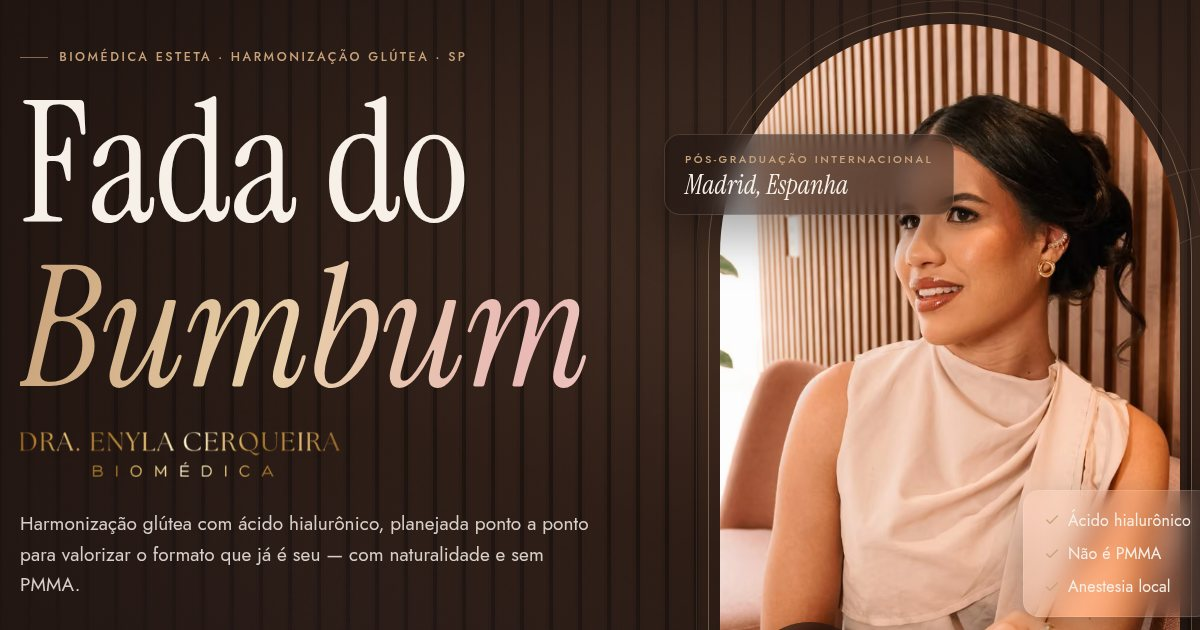
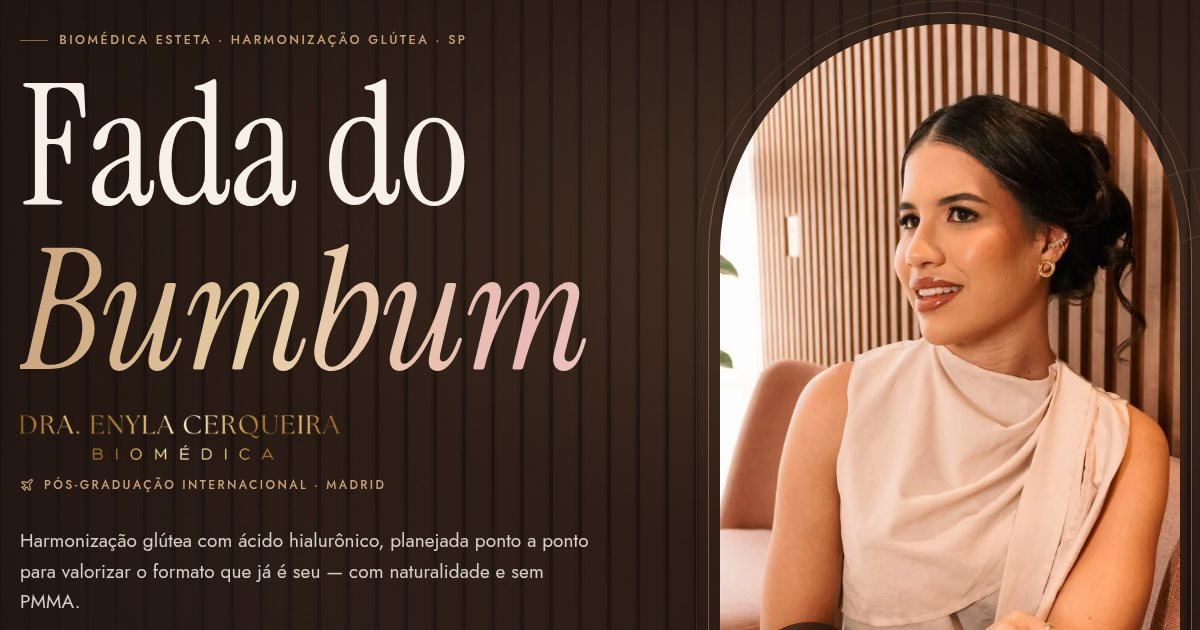
Proposta: destaque do nome Fada do Bumbum disponível
- Capa com selo 'fadadobumbum.com.br está disponível hoje'
- Slide do nome: .com.br e .com livres (consulta 05/10/2026), o que se
  perde se outra pessoa registrar antes, custo de R$ 40/ano e nota do INPI
- Convite final com primeiro passo concreto: garantir o domínio no nome
  dela, com botão direto no WhatsApp
- Capturas do site na proposta atualizadas (hero sem cartões sobre a foto)

Claude-Session: https://claude.ai/code/session_01ErwGMXvV9p4GR49w5GWrmr

diff --git a/app/proposta/page.tsx b/app/proposta/page.tsx
@@ -2,7 +2,7 @@ import type { CSSProperties, ReactNode } from 'react';
 import type { Metadata, Viewport } from 'next';
 import Image from 'next/image';
 import OfferDeck from './OfferDeck';
-import { brl, installmentValue, market, pixPrice, plans, pricing, seller, sellerWhatsapp } from '@/lib/offer';
+import { brl, installmentValue, market, nameCheck, pixPrice, plans, pricing, seller, sellerWhatsapp } from '@/lib/offer';
 import './proposta.css';
 
 export const metadata: Metadata = {
@@ -45,6 +45,13 @@ function Shot({ src, alt, label, className = '', n = 0 }: { src: string; alt: st
   );
 }
 
+const live = (
+  <span aria-hidden="true" className="relative flex h-2.5 w-2.5 shrink-0">
+    <span className="absolute inline-flex h-full w-full animate-ping rounded-full bg-[#4ade80] opacity-60 motion-reduce:hidden" />
+    <span className="relative h-2.5 w-2.5 rounded-full bg-[#4ade80]" />
+  </span>
+);
+
 const check = <span aria-hidden="true" className="mt-1 grid h-5 w-5 shrink-0 place-items-center rounded-full bg-rosedeep text-[11px] text-ivory">✓</span>;
 
 export default function Oferta() {
@@ -65,11 +72,14 @@ export default function Oferta() {
               <p className="of-lead of-reveal" style={d(2)}>
                 Um site autoral, <strong className="font-medium text-cream">já construído e no ar</strong>, feito a partir do seu Instagram, da sua formação em Madrid e da clínica da Haddock Lobo. Esta apresentação mostra o que ele faz, por que ele vende e quanto custa mantê-lo evoluindo.
               </p>
-              <div className="of-reveal flex flex-wrap items-center gap-4" style={d(3)}>
+              <p className="of-reveal inline-flex w-fit flex-wrap items-center gap-x-3 gap-y-1 rounded-full border border-gold/40 bg-cream/5 px-5 py-2.5 text-[14px]" style={d(3)}>
+                {live}<span><b className="font-medium text-cream">fadadobumbum.com.br</b> <span className="text-cream/75">está disponível hoje</span></span>
+              </p>
+              <div className="of-reveal flex flex-wrap items-center gap-4" style={d(4)}>
                 <a href="/" target="_blank" rel="noopener noreferrer" className="inline-flex min-h-12 items-center gap-3 rounded-full bg-gold px-7 text-[13px] font-medium uppercase tracking-[.14em] text-espresso">Abrir o site ↗</a>
                 <span className="text-[13px] text-cream/65">13 capítulos · cerca de 6 minutos</span>
               </div>
-              <div className="of-reveal mt-4 flex items-center gap-3" style={d(4)}>
+              <div className="of-reveal mt-4 flex items-center gap-3" style={d(5)}>
                 <span className="grid h-11 w-11 place-items-center rounded-full bg-cream/10 font-display text-lg text-gold ring-1 ring-gold/40">{seller.initials}</span>
                 <span className="leading-tight"><b className="block font-medium">{seller.name}</b><small className="text-cream/65">{seller.role}</small></span>
               </div>
@@ -119,16 +129,34 @@ export default function Oferta() {
         <div className="of-orbs" aria-hidden="true"><i /><i /></div>
         <div className="of-wrap">
           <div className="grid items-center gap-12 lg:grid-cols-[1.1fr_.9fr]">
-            <Heading eyebrow="02 / Uma marca que precisa de endereço" lead="“Fada do Bumbum” é uma marca forte — e nomes fortes são disputados. Hoje o domínio ainda está livre no Registro.br.">
-              Antes que alguém registre, <em>o nome deveria ser seu.</em>
-            </Heading>
-            <div className="of-reveal grid gap-4" style={d(3)}>
-              <div className="rounded-[22px] border border-gold/40 bg-cream/5 p-7">
-                <p className="text-[11px] uppercase tracking-[.22em] text-gold">Consulta no Registro.br · 03/10/2026</p>
-                <p className="mt-4 break-all font-display text-[clamp(2rem,3.6vw,3.2rem)] leading-none">fadadobumbum<span className="text-gold">.com.br</span></p>
-                <p className="mt-4 flex items-center gap-2 text-sm text-cream/85"><span className="h-2.5 w-2.5 rounded-full bg-[#4ade80]" /> Disponível para registro · {brl(pricing.domainYear)} por ano</p>
+            <div className="grid gap-6">
+              <Heading eyebrow="02 / O nome Fada do Bumbum" lead="É um nome que se guarda de primeira, fácil de buscar e de indicar — o tipo de nome que vira referência. Na consulta de hoje, ele continua livre. Mas no Registro.br não existe reserva: o domínio fica com quem registrar primeiro.">
+                Fada do Bumbum é a sua marca. <em>Hoje, o nome ainda está disponível.</em>
+              </Heading>
+              <div className="of-reveal grid gap-3" style={d(4)}>
+                <p className="text-[11px] uppercase tracking-[.22em] text-gold">Se outra pessoa registrar antes</p>
+                <ul className="grid gap-2.5 text-[15px] leading-snug text-cream/85">
+                  <li className="flex gap-3"><span className="text-gold">✕</span>quem digitar “Fada do Bumbum” cai no site de outra pessoa;</li>
+                  <li className="flex gap-3"><span className="text-gold">✕</span>recuperar um domínio ocupado custa muito mais — quando o dono aceita vender;</li>
+                  <li className="flex gap-3"><span className="text-gold">✕</span>todo o conteúdo que você cria passa a fortalecer um endereço que não é seu.</li>
+                </ul>
               </div>
-              <p className="of-note">O registro é feito no CPF ou CNPJ da Dra. Enyla: o endereço é dela para sempre, independentemente de quem cuida do site.</p>
+            </div>
+            <div className="of-reveal grid gap-4" style={d(3)}>
+              <div className="grid gap-5 rounded-[22px] border border-gold/40 bg-cream/5 p-7">
+                <p className="text-[11px] uppercase tracking-[.22em] text-gold">Consulta no Registro.br e na Verisign · {nameCheck.date}</p>
+                {nameCheck.domains.map((domain, i) => (
+                  <div key={domain.tld} className={i ? 'border-t border-cream/10 pt-5' : ''}>
+                    <p className={`break-all font-display leading-none ${i ? 'text-[clamp(1.5rem,2.4vw,2.1rem)] text-cream/85' : 'text-[clamp(2rem,3.6vw,3.2rem)]'}`}>{domain.name}<span className="text-gold">{domain.tld}</span></p>
+                    <p className="mt-3 flex items-center gap-2.5 text-sm text-cream/85">{live} Disponível · {domain.note}</p>
+                  </div>
+                ))}
+              </div>
+              <div className="rounded-[22px] bg-gold px-7 py-5 text-espresso">
+                <p className="font-display text-[clamp(1.6rem,2.6vw,2.2rem)] leading-tight">{brl(pricing.domainYear)} por ano.</p>
+                <p className="mt-1 text-[15px]">Menos de R$ 4 por mês para o nome ser seu — em qualquer cenário.</p>
+              </div>
+              <p className="of-note">O registro é feito no CPF ou CNPJ da Dra. Enyla: o endereço é dela, independentemente de quem cuida do site. Para proteger o nome também fora da internet, o passo seguinte é o registro da marca no INPI.</p>
             </div>
           </div>
         </div>
@@ -339,11 +367,17 @@ export default function Oferta() {
           <p className="of-eyebrow of-reveal" style={d(0)}>12 / O convite</p>
           <h2 className="of-reveal max-w-5xl text-[clamp(3rem,6.6vw,6.6rem)] leading-[.98]" style={d(1)}>Vamos colocar a Fada <em className="shimmer">no mapa?</em></h2>
           <p className="of-lead of-reveal" style={d(2)}>O site está pronto para receber as suas pacientes. Falta só ele ganhar o seu nome, os seus textos finais e o endereço que é seu.</p>
-          <div className="of-reveal flex flex-wrap items-center gap-4" style={d(3)}>
-            <a href={sellerWhatsapp('Gustavo, vi a proposta do site da Fada do Bumbum e quero conversar.')} target="_blank" rel="noopener noreferrer" data-sparkle className="inline-flex min-h-14 items-center gap-3 rounded-full bg-gold px-8 text-[13px] font-medium uppercase tracking-[.16em] text-espresso">Vamos conversar ↗</a>
-            <a href="/" target="_blank" rel="noopener noreferrer" className="inline-flex min-h-12 items-center border-b border-gold/60 text-[13px] font-medium uppercase tracking-[.16em]">Rever o site</a>
+          <div className="of-reveal grid max-w-3xl gap-2 rounded-[22px] border border-gold/40 bg-cream/5 p-6 sm:p-7" style={d(3)}>
+            <p className="flex items-center gap-2.5 text-[11px] uppercase tracking-[.22em] text-gold">{live} Primeiro passo · ainda esta semana</p>
+            <p className="font-display text-[clamp(1.6rem,2.8vw,2.4rem)] leading-tight">Garantir <span className="text-gold">fadadobumbum.com.br</span> no seu nome.</p>
+            <p className="text-[15px] text-cream/80">Leva cerca de 10 minutos, custa {brl(pricing.domainYear)} por ano e já protege a marca — mesmo antes de decidirmos o resto.</p>
           </div>
-          <p className="of-note of-reveal" style={d(4)}>{seller.name} · {seller.role}. Valores válidos por 15 dias a partir de 03/10/2026.</p>
+          <div className="of-reveal flex flex-wrap items-center gap-4" style={d(4)}>
+            <a href={sellerWhatsapp('Gustavo, quero garantir o domínio fadadobumbum.com.br no meu nome.')} target="_blank" rel="noopener noreferrer" data-sparkle className="inline-flex min-h-14 items-center gap-3 rounded-full bg-gold px-8 text-[13px] font-medium uppercase tracking-[.16em] text-espresso">Garantir o nome ↗</a>
+            <a href={sellerWhatsapp('Gustavo, vi a proposta do site da Fada do Bumbum e quero conversar.')} target="_blank" rel="noopener noreferrer" className="inline-flex min-h-12 items-center border-b border-gold/60 text-[13px] font-medium uppercase tracking-[.16em]">Conversar sobre o site</a>
+            <a href="/" target="_blank" rel="noopener noreferrer" className="inline-flex min-h-12 items-center border-b border-cream/30 text-[13px] font-medium uppercase tracking-[.16em] text-cream/75">Rever o site</a>
+          </div>
+          <p className="of-note of-reveal" style={d(5)}>{seller.name} · {seller.role}. Valores válidos por 15 dias a partir de 03/10/2026.</p>
         </div>
       </section>
     </OfferDeck>

diff --git a/lib/offer.ts b/lib/offer.ts
@@ -24,6 +24,15 @@ export const pricing = {
   domainYear: 40,
 };
 
+// Consulta de disponibilidade do nome (Registro.br e Verisign/RDAP).
+export const nameCheck = {
+  date: '05/10/2026',
+  domains: [
+    { name: 'fadadobumbum', tld: '.com.br', note: 'endereço principal' },
+    { name: 'fadadobumbum', tld: '.com', note: 'proteção da marca (opcional)' },
+  ],
+};
+
 export const pixPrice = Math.round(pricing.setup * (1 - pricing.pixDiscount));
 export const installmentValue = Math.round(pricing.setup / pricing.installments);
 
